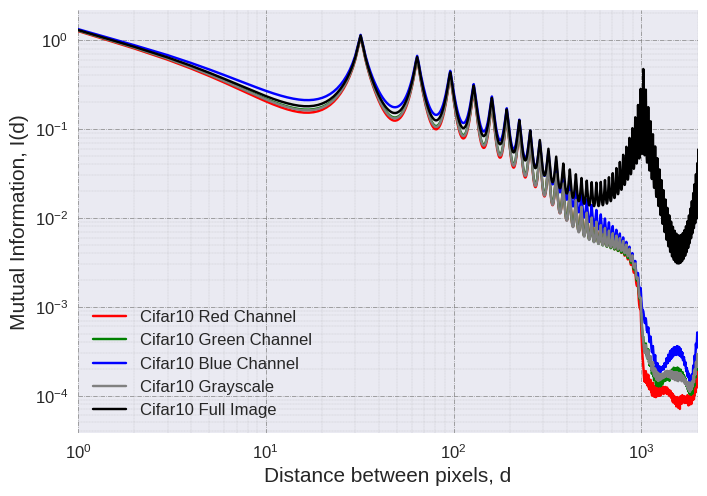
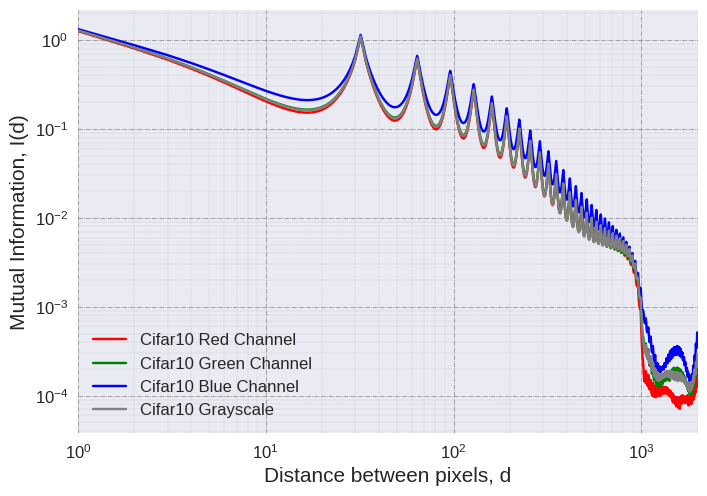
Up

diff --git a/paper_related/cifar10/plot_cifar10.py b/paper_related/cifar10/plot_cifar10.py
@@ -46,7 +46,7 @@ with plt.style.context(('seaborn')):
     plt.loglog(np.arange(1,len(all_mi[1])+1), all_mi[1], 'g-', label='Cifar10 Green Channel')
     plt.loglog(np.arange(1,len(all_mi[2])+1), all_mi[2], 'b-', label='Cifar10 Blue Channel')
     plt.loglog(np.arange(1,len(all_mi[3])+1), all_mi[3], color='gray', linestyle='solid', label='Cifar10 Grayscale')
-    plt.loglog(np.arange(1,len(all_mi[4])+1), all_mi[4], 'k-', label='Cifar10 Full Image')
+    #plt.loglog(np.arange(1,len(all_mi[4])+1), all_mi[4], 'k-', label='Cifar10 Full Image')
 
     plt.tick_params(labelsize='large', width=5)
     plt.grid(True)
